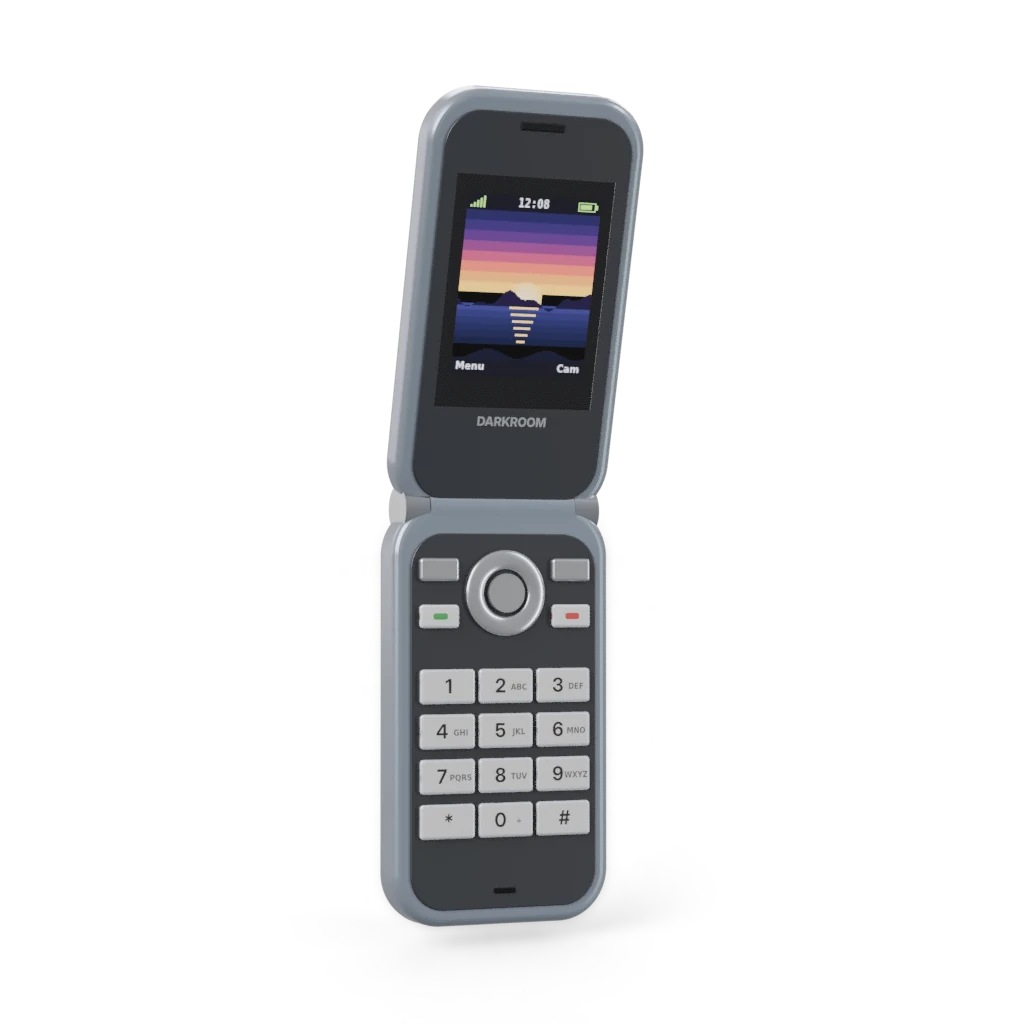
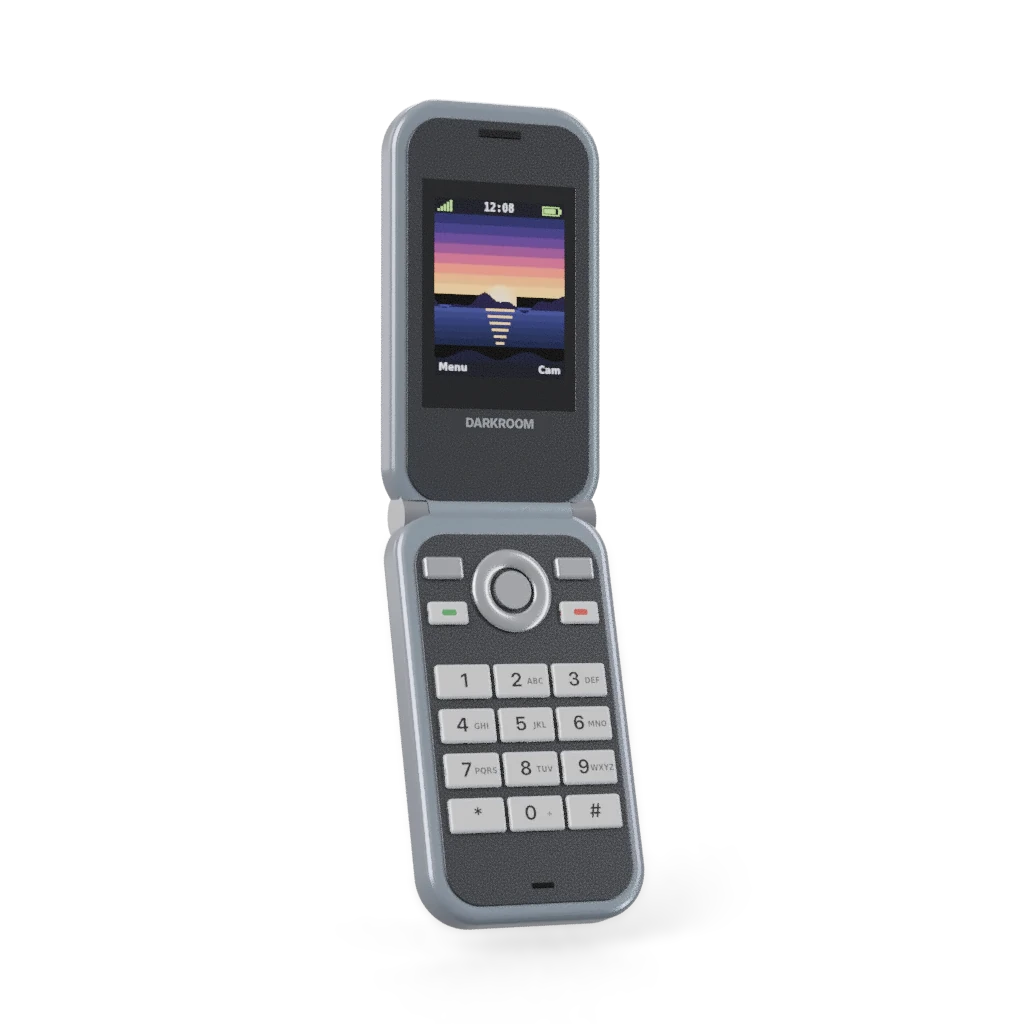
Store art at Play and Apple sizes; flip phone artwork with the screen half upright

Changed region(s): [[0.3438, 0.0625, 0.625, 0.9062], [0.4375, 0.4062, 0.5312, 0.4375]]

diff --git a/docs/CHANGELOG.md b/docs/CHANGELOG.md
@@ -1388,3 +1388,12 @@ for from 2026-10-28 (reminder set for 2026-10-29).
   Fancy graphics on, over the camera, asks once ever ("Things feeling
   slow?": Keep it fancy / Smooth it out = Fancy graphics off;
   `PrefKeys.lagAsked`). Debug > Lag Prompt shows it.
+- [~] **57.66** Store art: `tool/store/make_header.py` draws a darkroom
+  wall under the safelight, prints drying on a line between two nails, the
+  films, an open DEV bottle (cap beside it), STOP/FIX, a tray with a print
+  coming up and tongs, the flip phone, the floppy camera, an SD card and a
+  floppy on the desk; tagline "Photos worth waiting for." Sizes: Play
+  1024x500, Apple 3840x1646 and 5244x2950 (`docs/store/`).
+- [~] **57.67** Flip phone artwork re-rendered (`tool/render/items/flip.js`):
+  the screen half upright, the keypad half angled toward you (was the
+  other way round).
